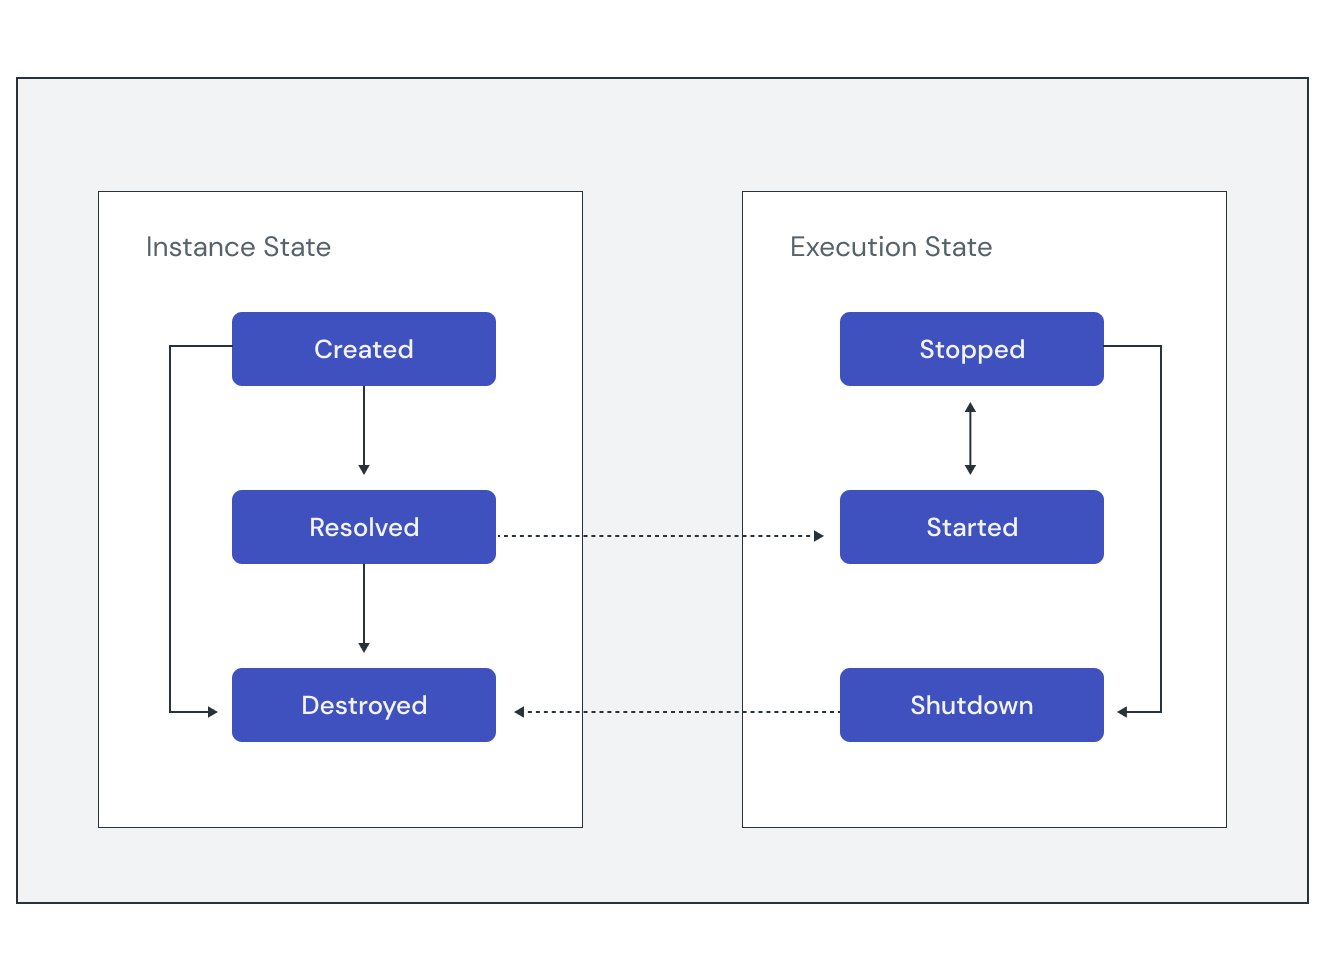
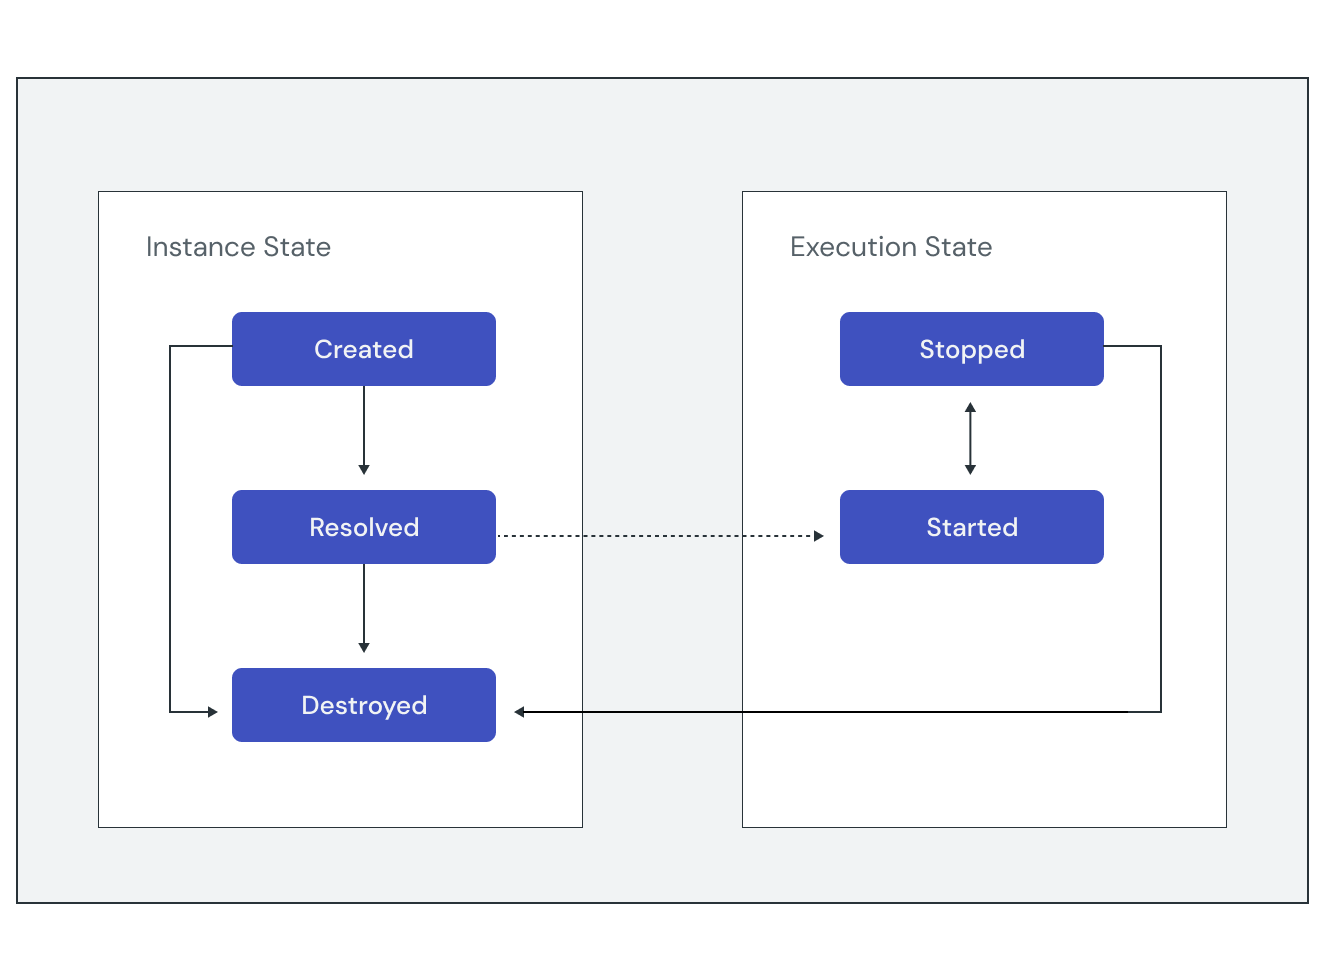
[docs][cf] Refine lifecycle explanation in get-started
The "shutdown" lifecycle state is an internal detail of the CF impl, so remove any mention of it.

Other issues mentioned in the linked bug have already
been addressed.

Fixed: b/296273992
Commit-Queue: Gabe Schine <thatguy@google.com>

Changed region(s): [[0.6193, 0.6735, 0.8361, 0.7653]]

diff --git a/docs/get-started/_common/components/_organizing_lifecycle.md b/docs/get-started/_common/components/_organizing_lifecycle.md
@@ -14,9 +14,9 @@ Once a component is destroyed, the framework removes its persistent state
 (such as local storage).
 
 The framework starts a component instance when another component attempts to
-open a channel to it — known as **binding**. Binding happens **implicitly** when
-connecting to a capability exposed by the component. Binding to a component that
-is already started connects to the currently running instance.
+open a channel to it. This happens **implicitly** when connecting to a
+capability exposed by the component. Connecting to a component
+that is already started reuses the running instance.
 
 <aside class="key-point">
 Components are initially <strong>stopped</strong> when they are created. A
@@ -26,8 +26,7 @@ before it can <strong>start</strong>.
 
 Components may stop themselves by exiting the program (as defined by the
 component's `runner`), or the framework may stop the component as part of
-system shutdown. Before being destroyed, the framework moves components to a
-**shutdown** state to indicate that it cannot be started again.
+system shutdown.
 
 ![Diagram showing how components have two distinct states: instance and
 execution. Together, these states describe the "component lifecycle."](

diff --git a/docs/get-started/learn/components/organizing-components.md b/docs/get-started/learn/components/organizing-components.md
@@ -93,7 +93,7 @@ ffx component show echo-args
 You should now see the following output:
 
 ```none {:.devsite-disable-click-to-copy}
-               Moniker: /core/ffx-laboratory:echo-args
+               Moniker: core/ffx-laboratory:echo-args
                    URL: fuchsia-pkg://fuchsia.com/echo-args#meta/echo-args.cm
                   Type: CML dynamic component
        Component State: Resolved
